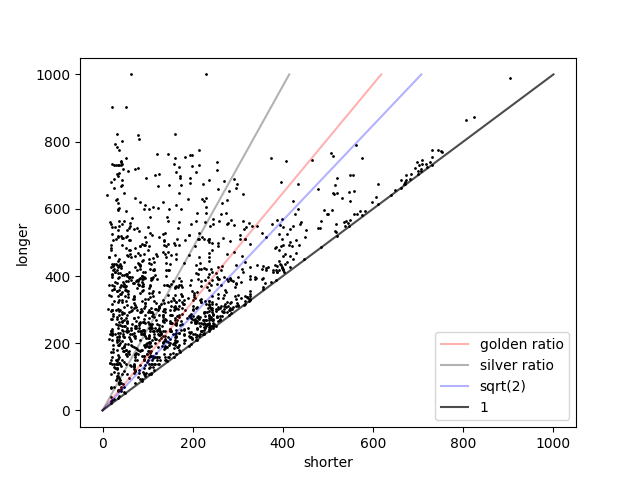
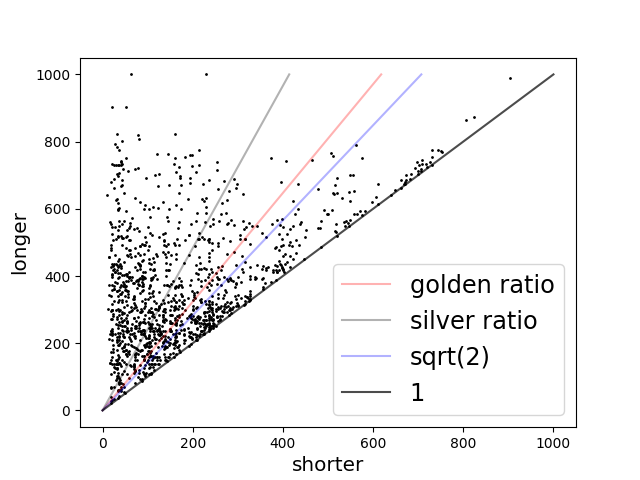
Fix some images

diff --git a/analyze.py b/analyze.py
@@ -195,12 +195,13 @@ plt.gca().invert_yaxis()
 plt.savefig(out_dir + '/kernel-densities.png')
 plt.close()
 
+plt.rcParams.update({'axes.labelsize': 'x-large'})
 df.plot.scatter(x='shorter', y='longer', s=1, c='black')
 plt.plot([0, 618], [0, 1000], 'k-', alpha=0.3, label='golden ratio', c='red')
 plt.plot([0, 414], [0, 1000], 'k-', alpha=0.3, label='silver ratio')
 plt.plot([0, 707], [0, 1000], 'k-', alpha=0.3, label='sqrt(2)', c='blue')
 plt.plot([0, 1000], [0, 1000], 'k-', alpha=0.7, label='1')
-plt.legend()
+plt.legend(fontsize='xx-large')
 plt.savefig(out_dir + '/longer-x-shorter.png')
 plt.close()
 
